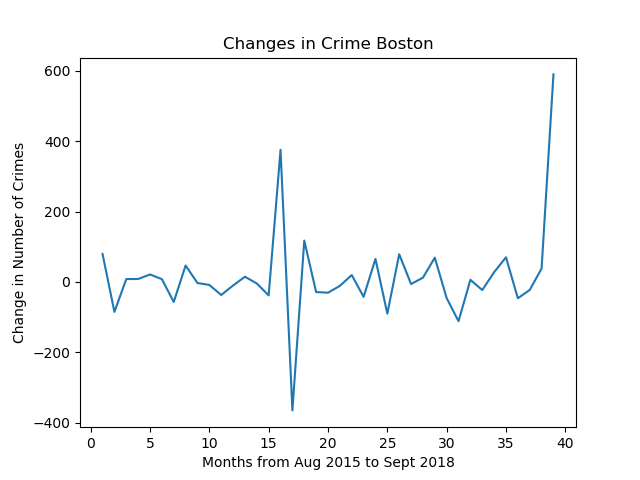
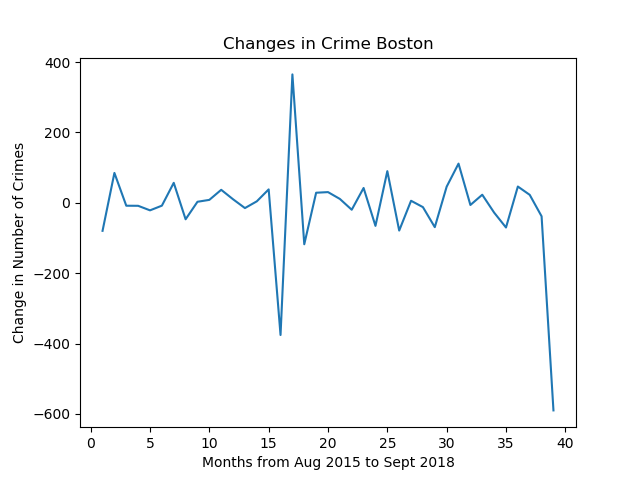
Add files via upload

diff --git a/CrimeInBoston.py b/CrimeInBoston.py
@@ -14,8 +14,8 @@ changes_in_crime = []
 with open("changes_in_crime.csv","w") as f:
     f.write("YearMonth,Change in crime\n")
     for i in range(1,40):
-        changes_in_crime.append([i,float(data[i-1,1])-float(data[i,1])])
-        f.write(data[i,0]+ ","+str(float(data[i-1,1])-float(data[i,1]))+"\n")
+        changes_in_crime.append([i,-float(data[i-1,1])+float(data[i,1])])
+        f.write(data[i,0]+ ","+str(-float(data[i-1,1])+float(data[i,1]))+"\n")
     f.close()
 changes_in_crime = np.array(changes_in_crime)
 plt.title("Changes in Crime Boston")
